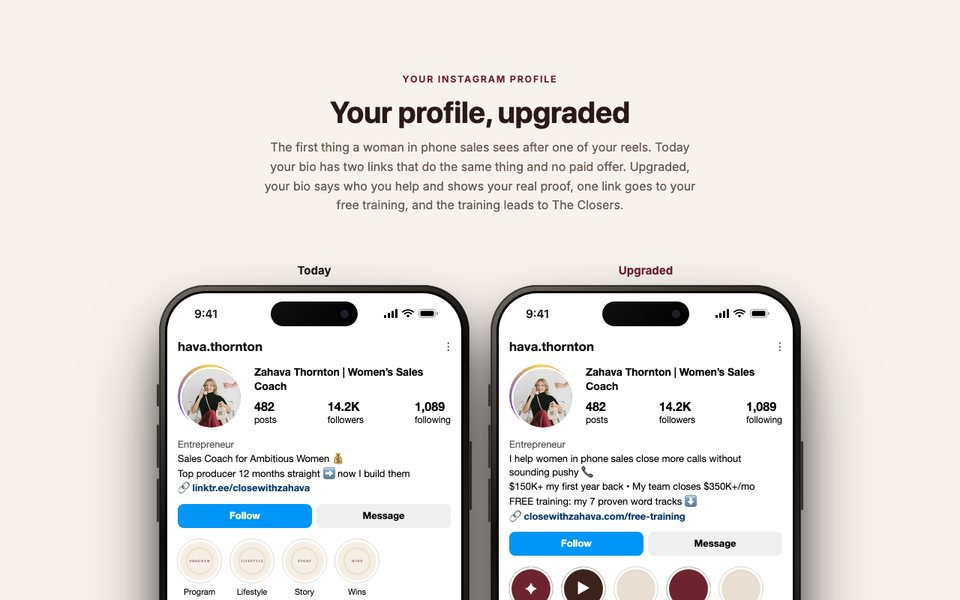
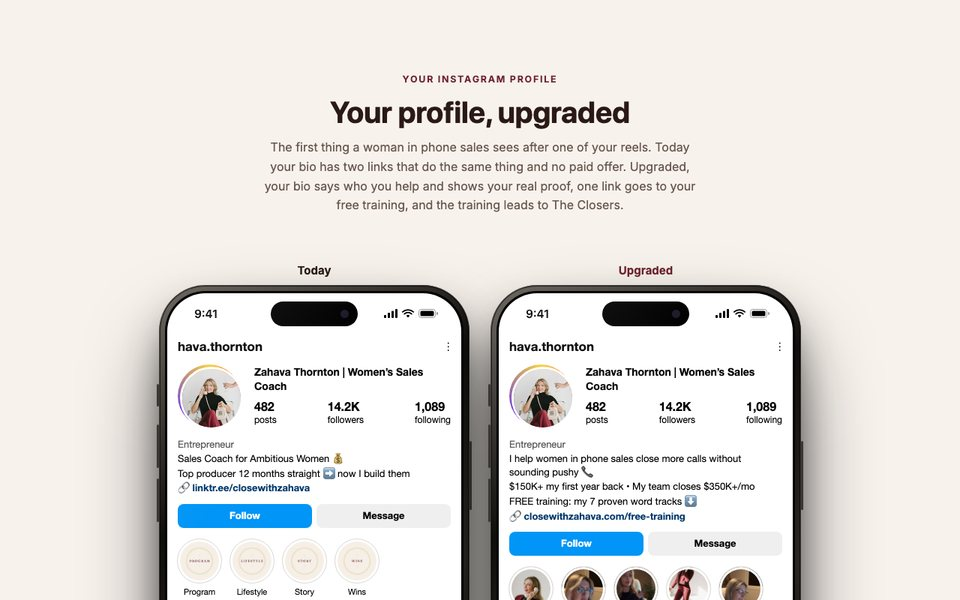
Highlight covers from her own photos

Changed region(s): [[0.5312, 0.93, 0.8125, 1.0]]

diff --git a/ig-profile/index.html b/ig-profile/index.html
@@ -70,7 +70,7 @@
     <div class="pright"><b class="pname">Zahava Thornton | Women&rsquo;s Sales Coach</b><div class="pstats"><span><b>482</b>posts</span><span><b>14.2K</b>followers</span><span><b>1,089</b>following</span></div></div></div>
   <div class="pbio"><p class="pcat">Entrepreneur</p><p>I help women in phone sales close more calls without sounding pushy &#128222;</p><p>$150K+ my first year back &bull; My team closes $350K+/mo</p><p>FREE training: my 7 proven word tracks &#11015;&#65039;</p><p class="plink">&#128279; closewithzahava.com/free-training</p></div>
   <div class="pbtn"><span class="fol">Follow</span><span>Message</span></div>
-  <div class="hl"><span class="hli"><i style="background:#6e2430">&#10022;</i><b>Start here</b></span><span class="hli"><i style="background:#3a231d">&#9654;</i><b>Free training</b></span><span class="hli"><i style="background:#e9ded2"></i><b>Wins</b></span><span class="hli"><i style="background:#6e2430"></i><b>The Closers</b></span><span class="hli"><i style="background:#e9ded2"></i><b>Story</b></span></div>
+  <div class="hl"><span class="hli"><i style="background:url(../assets/img/profile/hlc-start.jpg) center/cover"></i><b>Start here</b></span><span class="hli"><i style="background:url(../assets/img/profile/hlc-training.jpg) center/cover"></i><b>Free training</b></span><span class="hli"><i style="background:url(../assets/img/profile/hlc-wins.jpg) center/cover"></i><b>Wins</b></span><span class="hli"><i style="background:url(../assets/img/profile/hlc-program.jpg) center/cover"></i><b>Program</b></span><span class="hli"><i style="background:url(../assets/img/profile/hlc-story.jpg) center/cover"></i><b>Story</b></span></div>
   <div class="ptabs"><span class="on">&#9638;</span><span>&#9654;</span><span>&#9786;</span></div>
   <div class="grid3"><span class="gc"><svg class="pin" viewBox="0 0 24 24"><path d="M15 3l6 6-3 1-4 4 1 5-2 1-4-4-5 5-1-1 5-5-4-4 1-2 5 1 4-4z" fill="#fff"/></svg><svg class="rl" viewBox="0 0 24 24"><rect x="4" y="6" width="13" height="14" rx="2" fill="none" stroke="#fff" stroke-width="2"/><path d="M8 3h10a3 3 0 0 1 3 3v10" fill="none" stroke="#fff" stroke-width="2"/></svg><img src="../assets/img/post/p1.jpg" alt=""></span><span class="gc"><svg class="pin" viewBox="0 0 24 24"><path d="M15 3l6 6-3 1-4 4 1 5-2 1-4-4-5 5-1-1 5-5-4-4 1-2 5 1 4-4z" fill="#fff"/></svg><svg class="rl" viewBox="0 0 24 24"><rect x="3" y="3" width="18" height="18" rx="5" fill="none" stroke="#fff" stroke-width="2"/><path d="M10 9v6l5-3z" fill="#fff"/></svg><img src="../assets/img/profile/pin2.jpg" alt=""></span><span class="gc"><svg class="pin" viewBox="0 0 24 24"><path d="M15 3l6 6-3 1-4 4 1 5-2 1-4-4-5 5-1-1 5-5-4-4 1-2 5 1 4-4z" fill="#fff"/></svg><svg class="rl" viewBox="0 0 24 24"><rect x="3" y="3" width="18" height="18" rx="5" fill="none" stroke="#fff" stroke-width="2"/><path d="M10 9v6l5-3z" fill="#fff"/></svg><img src="../assets/img/profile/pin3.jpg" alt=""></span><span class="gc"><svg class="rl" viewBox="0 0 24 24"><rect x="3" y="3" width="18" height="18" rx="5" fill="none" stroke="#fff" stroke-width="2"/><path d="M10 9v6l5-3z" fill="#fff"/></svg><img src="../assets/img/profile/De10sxNBxvC.jpg" alt=""></span><span class="gc"><svg class="rl" viewBox="0 0 24 24"><rect x="3" y="3" width="18" height="18" rx="5" fill="none" stroke="#fff" stroke-width="2"/><path d="M10 9v6l5-3z" fill="#fff"/></svg><img src="../assets/img/profile/Deu44SAhbS0.jpg" alt=""></span><span class="gc"><svg class="rl" viewBox="0 0 24 24"><rect x="3" y="3" width="18" height="18" rx="5" fill="none" stroke="#fff" stroke-width="2"/><path d="M10 9v6l5-3z" fill="#fff"/></svg><img src="../assets/img/profile/De9ijRYBRlO.jpg" alt=""></span><span class="gc"><svg class="rl" viewBox="0 0 24 24"><rect x="3" y="3" width="18" height="18" rx="5" fill="none" stroke="#fff" stroke-width="2"/><path d="M10 9v6l5-3z" fill="#fff"/></svg><img src="../assets/img/profile/DehoSqrvPxf.jpg" alt=""></span><span class="gc"><svg class="rl" viewBox="0 0 24 24"><rect x="3" y="3" width="18" height="18" rx="5" fill="none" stroke="#fff" stroke-width="2"/><path d="M10 9v6l5-3z" fill="#fff"/></svg><img src="../assets/img/profile/DezK0dhB6uB.jpg" alt=""></span><span class="gc"><svg class="rl" viewBox="0 0 24 24"><rect x="3" y="3" width="18" height="18" rx="5" fill="none" stroke="#fff" stroke-width="2"/><path d="M10 9v6l5-3z" fill="#fff"/></svg><img src="../assets/img/profile/Dew3CqRBBdB.jpg" alt=""></span></div>
 </div></div><div class="tabbar"><svg viewBox="0 0 24 24"><path d="M3 10.5L12 3l9 7.5V21h-6v-6H9v6H3z" fill="#000"/></svg><svg viewBox="0 0 24 24"><circle cx="11" cy="11" r="7"/><path d="M20.5 20.5l-4.5-4.5"/></svg><svg viewBox="0 0 24 24"><rect x="3" y="3" width="18" height="18" rx="5"/><path d="M12 8v8M8 12h8"/></svg><svg viewBox="0 0 24 24"><rect x="3" y="3" width="18" height="18" rx="5"/><path d="M3 8.5h18M8 3l3 5.5M14 3l3 5.5M10 12v5l4.5-2.5z"/></svg><img class="me" src="../assets/img/profile/pfp.jpg" alt="" /></div>

diff --git a/index.html b/index.html
@@ -193,9 +193,9 @@
             <span class="group__rule"></span>
           </div>
           <div class="grid grid--2">
-            <button class="pcard reveal" data-title="Your profile, upgraded" data-embed="ig-profile/?v=z1">
-              <span class="thumb"><span class="thumb__bar"><i></i><i></i><i></i><span class="thumb__url">today vs upgraded</span></span><img class="thumb__img" src="assets/img/igprofile-preview.jpg?v=z1" alt="Your profile, upgraded preview" loading="lazy" /></span>
-              <span class="pcard__body"><span><span class="pcard__kicker">The first thing they see</span><span class="pcard__title">Your profile, upgraded</span><span class="pcard__desc">One clear line on who you help, your real proof, one link to your free training, and a &ldquo;Start here&rdquo; highlight.</span></span><span class="pcard__link">Open preview <span class="arrow" aria-hidden="true"></span></span></span>
+            <button class="pcard reveal" data-title="Your profile, upgraded" data-embed="ig-profile/?v=z2">
+              <span class="thumb"><span class="thumb__bar"><i></i><i></i><i></i><span class="thumb__url">today vs upgraded</span></span><img class="thumb__img" src="assets/img/igprofile-preview.jpg?v=z2" alt="Your profile, upgraded preview" loading="lazy" /></span>
+              <span class="pcard__body"><span><span class="pcard__kicker">The first thing they see</span><span class="pcard__title">Your profile, upgraded</span><span class="pcard__desc">One clear line on who you help, your real proof, one link to your free training, and your highlights cut down to the ones that matter the most, with &ldquo;Start here&rdquo; first.</span></span><span class="pcard__link">Open preview <span class="arrow" aria-hidden="true"></span></span></span>
             </button>
             <button class="pcard reveal" data-title="Your 3 pinned posts" data-embed="pinned-post/?v=z1" data-noanim>
               <span class="thumb"><span class="thumb__bar"><i></i><i></i><i></i><span class="thumb__url">instagram.com/hava.thornton</span></span><img class="thumb__img" src="assets/img/pinned-preview.jpg?v=z1" alt="Your 3 pinned posts preview" loading="lazy" /></span>
